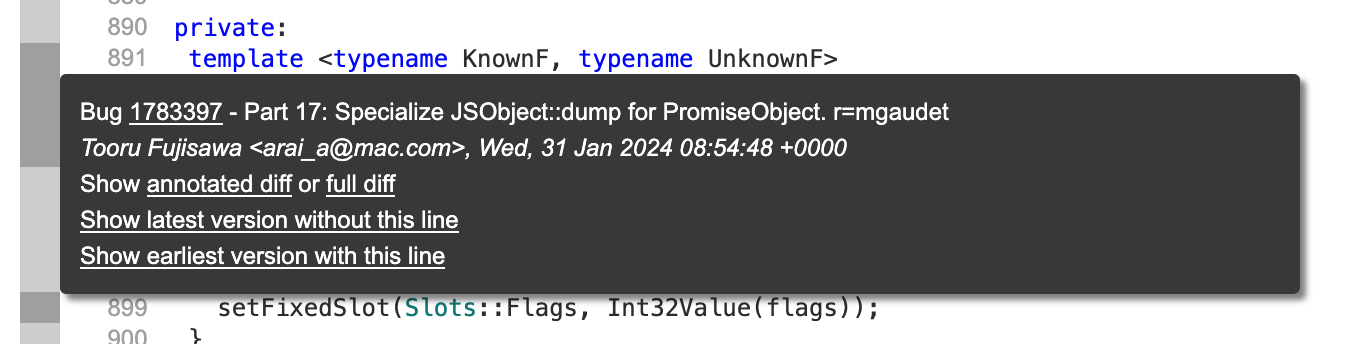
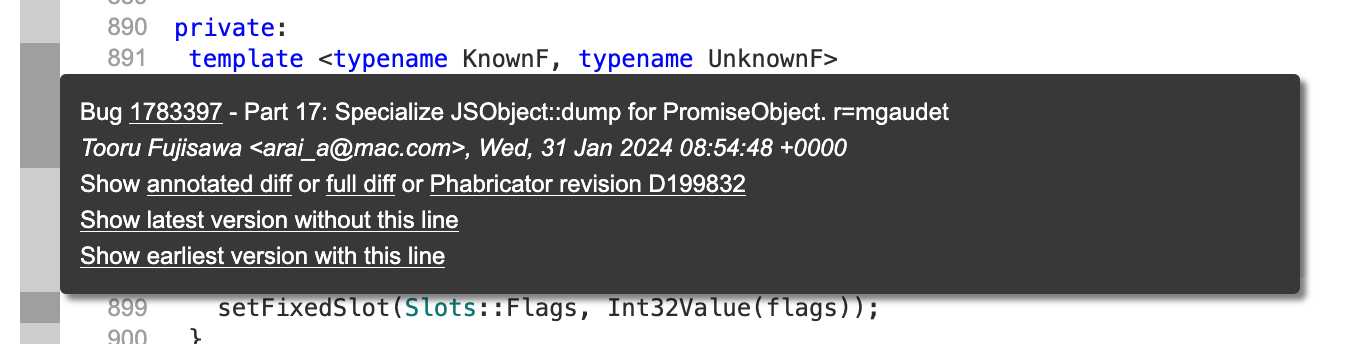
Bug 2002872 - Part 5: Document the Phabricator revision in the Blame strip. r=asuth
Differential Revision: https://phabricator.services.mozilla.com/D277692

Changed region(s): [[0.2767, 0.4942, 0.5534, 0.5814]]

diff --git a/docs/contributing/searchfox/blame.rst b/docs/contributing/searchfox/blame.rst
@@ -27,6 +27,9 @@ annotated diff
 full diff
   Open the full diff view on the repository, e.g. on `hg.mozilla.org`.
 
+Phabricator Revision
+  Open the Phabricator revision for the commit.
+
 Show latest version without this line
   Open the revision-specific URL of the last revision before the given commit.
 
